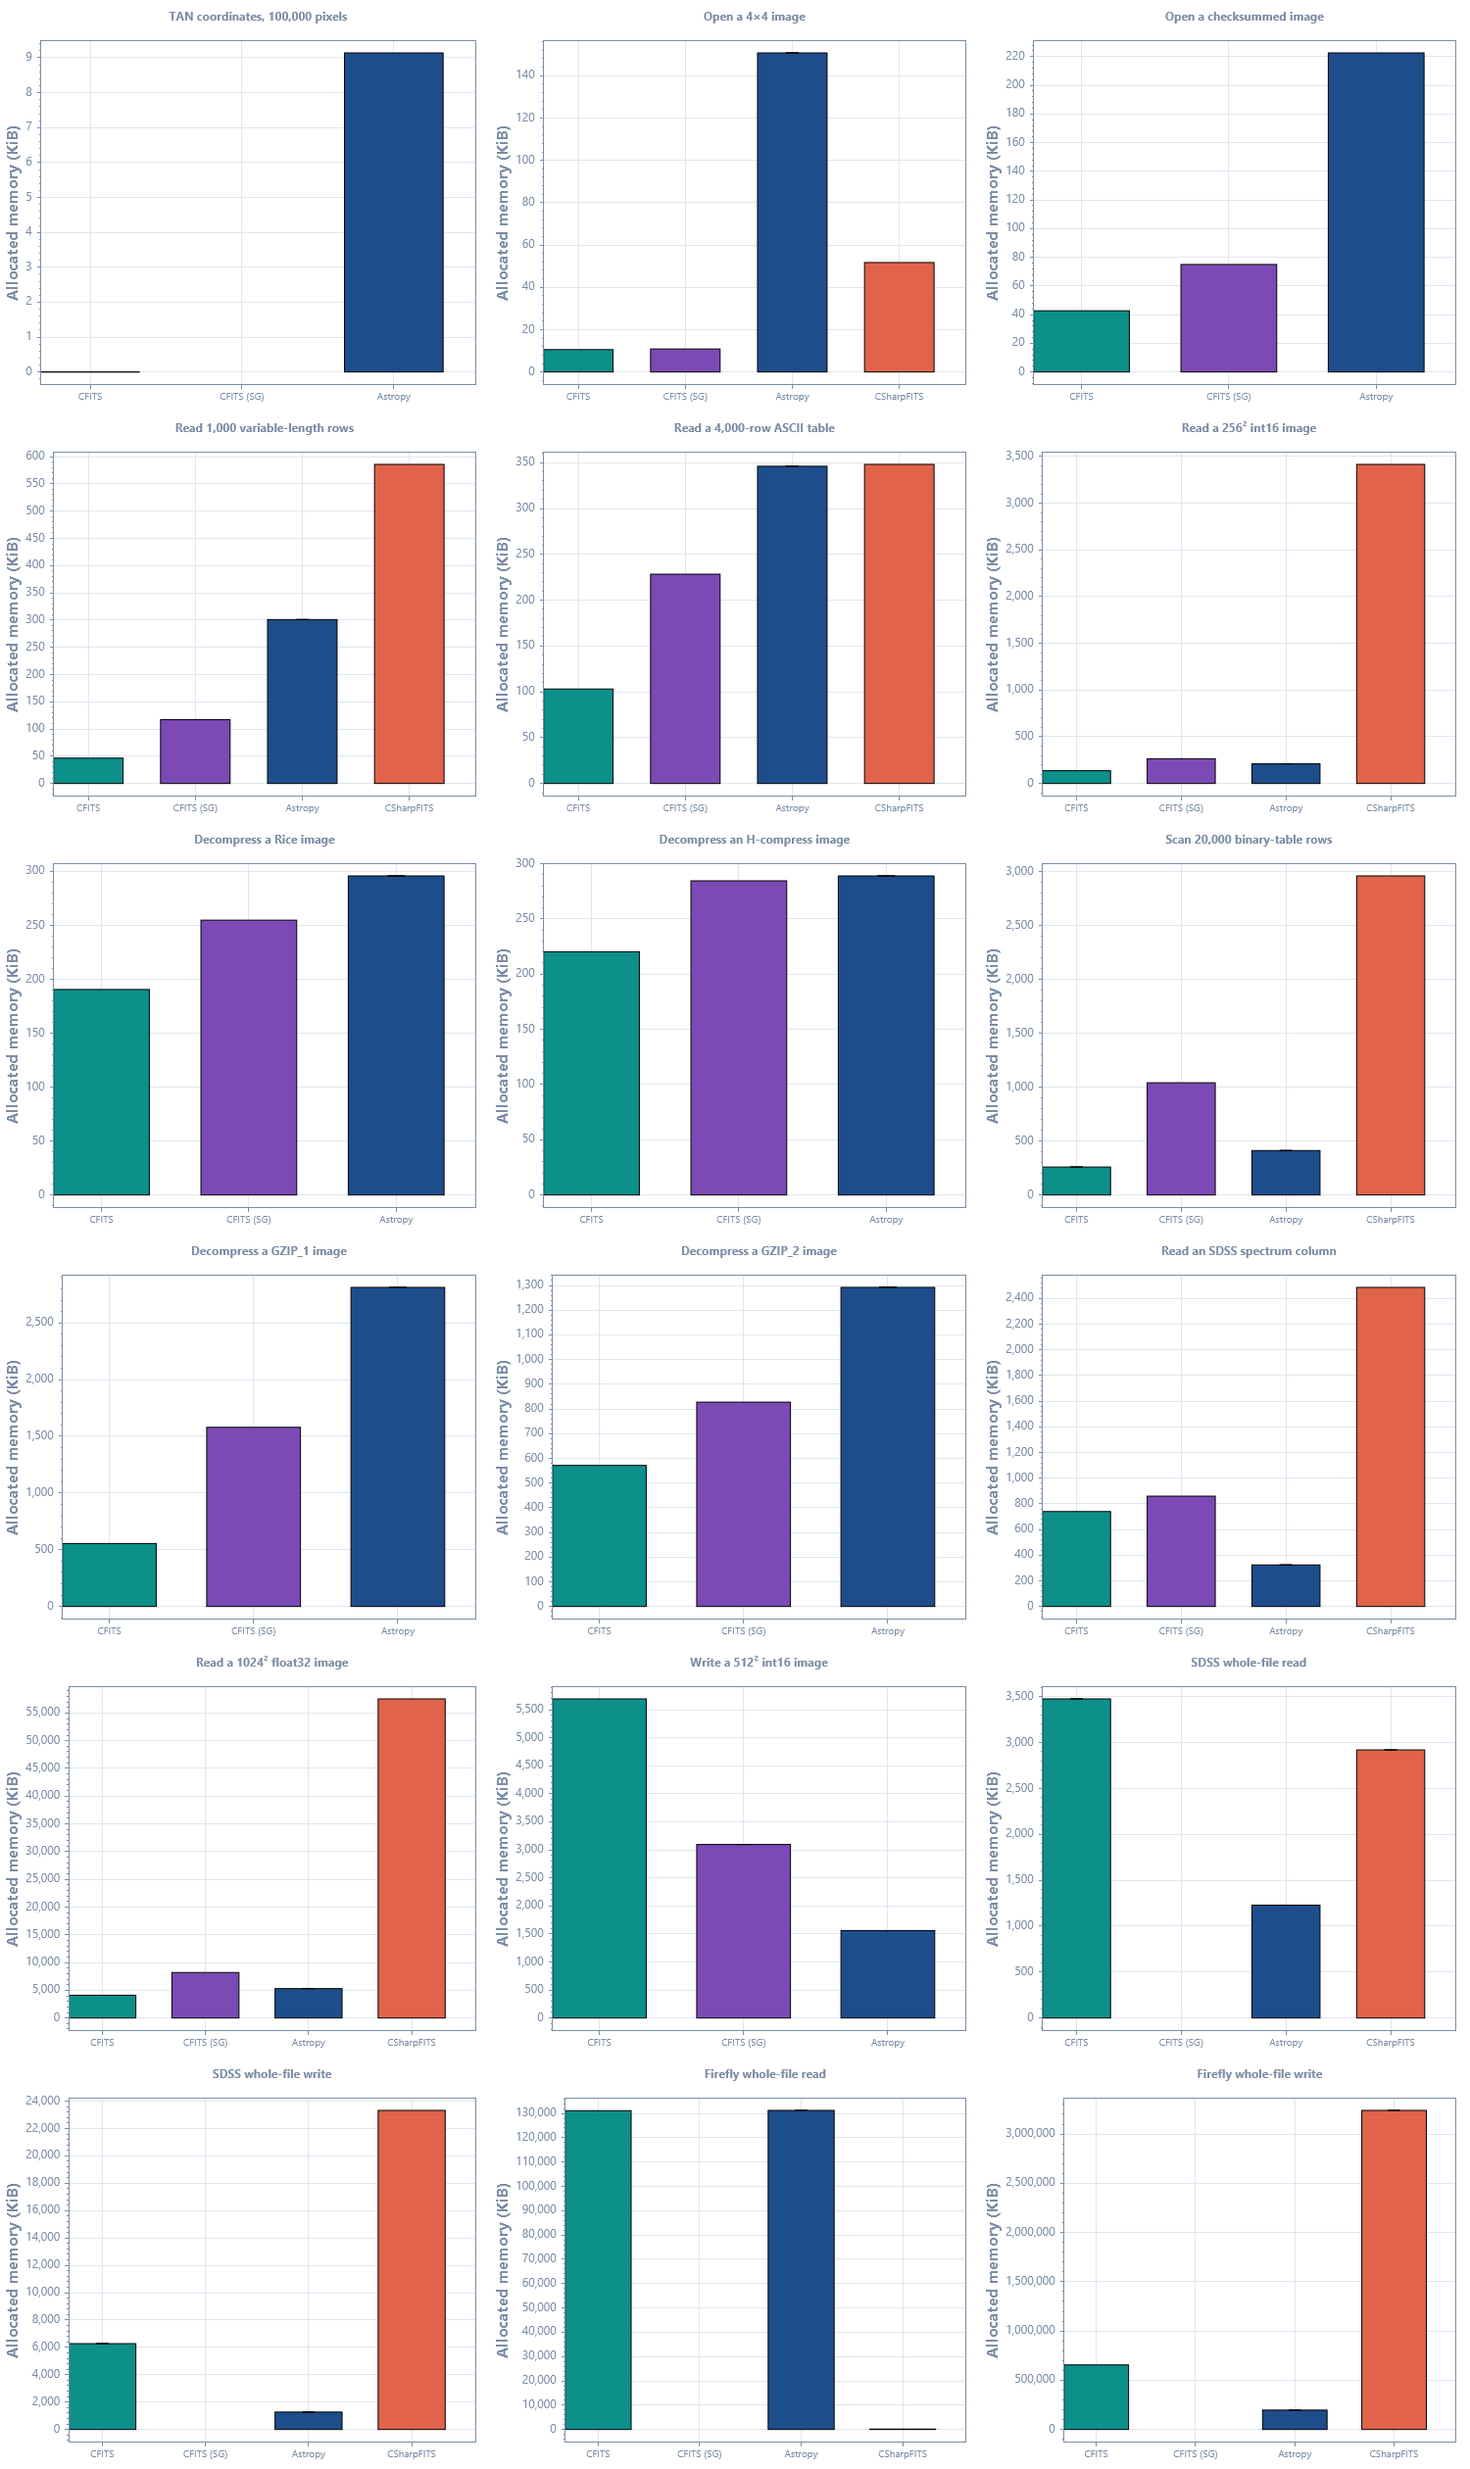
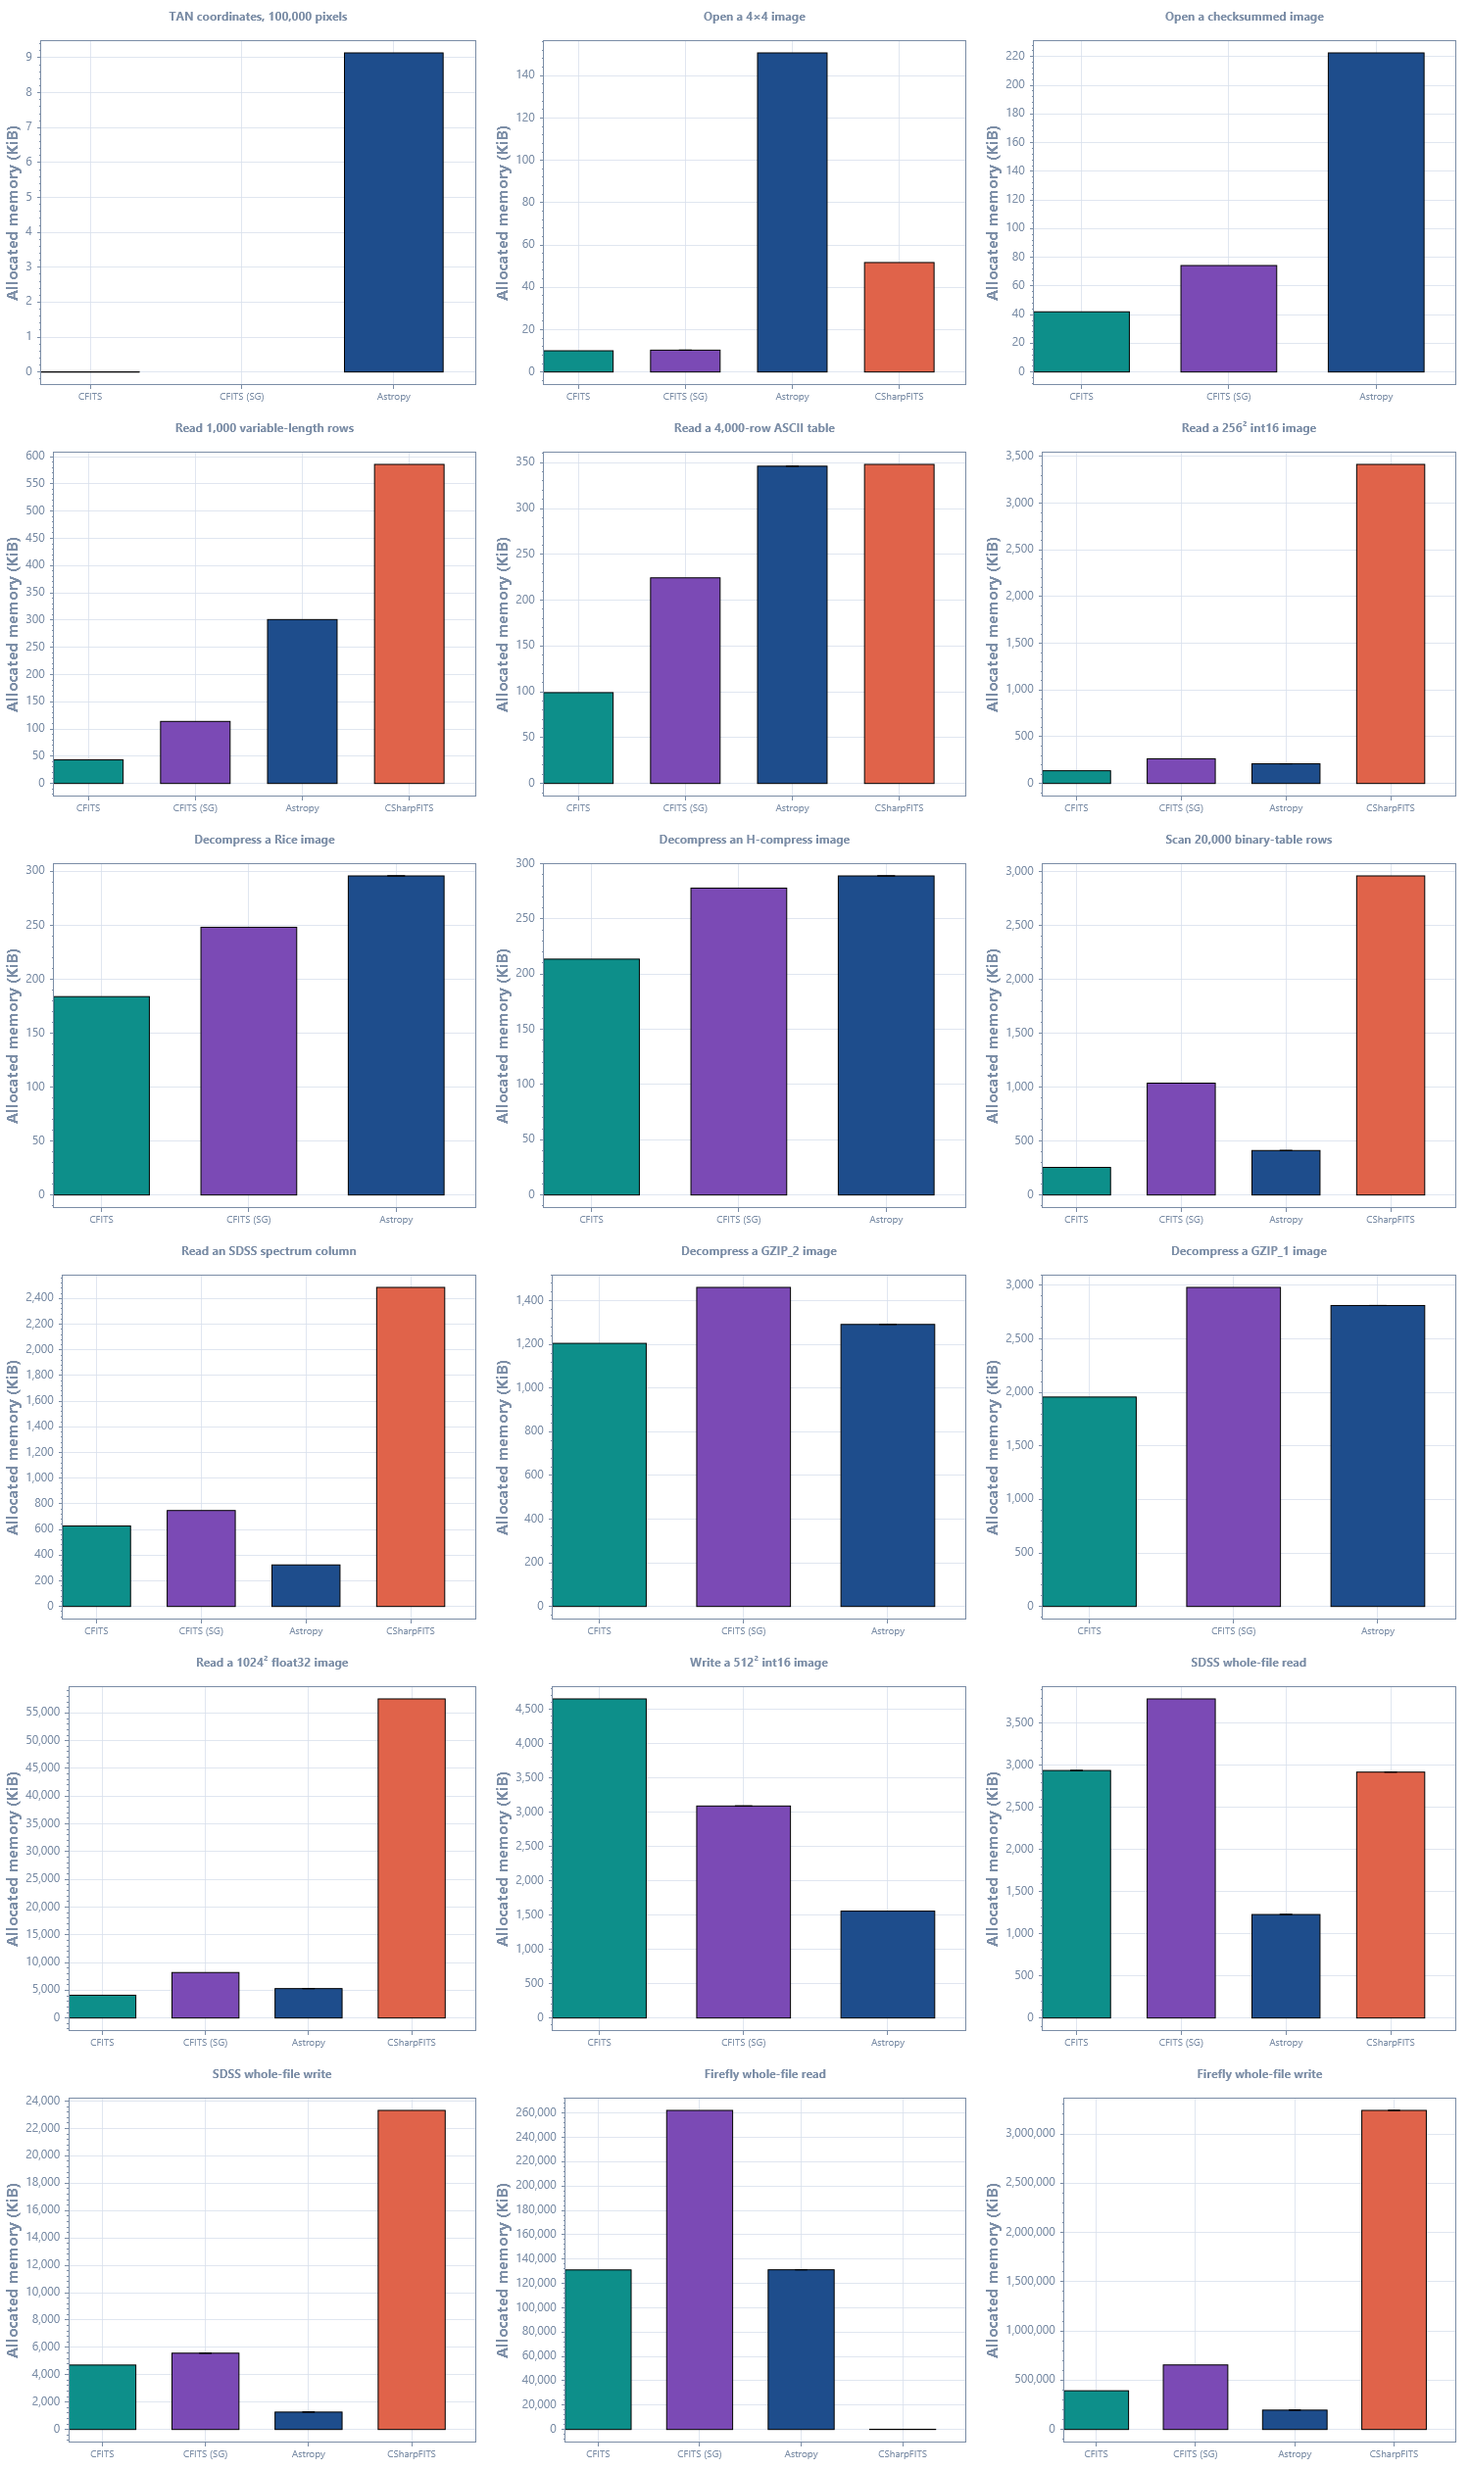
benchmarks

diff --git a/Tools/CFITS.Tests/Surveys/RealSurveyTests.cs b/Tools/CFITS.Tests/Surveys/RealSurveyTests.cs
@@ -17,7 +17,7 @@ public sealed class RealSurveyTests
             "sdss-spec-0500-002.fits",
             "sdss-spec-0500-003.fits",
         ];
-        string manifestPath = Path.Combine(root, "Benchmarks", "Results", "sdss-manifest.csv");
+        string manifestPath = Path.Combine(root, "SampleData", "Real", "sdss-manifest.csv");
         var expectedHashes = File.ReadLines(manifestPath)
             .Skip(1)
             .Select(line => line.Split(','))
@@ -115,6 +115,43 @@ public sealed class RealSurveyTests
             Assert.True(sum != 0);
             Assert.InRange(watch.Elapsed.TotalMilliseconds / 10, 0, 500);
             Console.WriteLine($"{name}: first flux {firstFlux}, loglam {firstWavelength}, sum {sum}, {watch.Elapsed.TotalMilliseconds / 10:0.0} ms");
+        }
+    }
+
+    [Fact]
+    public void DustMapsReadAndWriteAsWholeFitsFiles()
+    {
+        string root = FindRoot();
+        string[] names = ["SFD_dust_4096_ngp.fits", "SFD_dust_4096_sgp.fits"];
+        string outputDirectory = Path.Combine(Path.GetTempPath(), "cfits-dust-roundtrip", Guid.NewGuid().ToString("N"));
+        Directory.CreateDirectory(outputDirectory);
+        try
+        {
+            foreach (string name in names)
+            {
+                string source = Path.Combine(root, "SampleData", "Real", name);
+                string output = Path.Combine(outputDirectory, name);
+                Assert.True(File.Exists(source), source);
+
+                using var document = FitsDocument.Open(source);
+                Assert.NotEmpty(document.Hdus);
+                Assert.NotNull(document.Hdus[0].Image);
+                Assert.True(document.Hdus[0].Image!.Length > 0);
+
+                document.Save(output);
+                using var roundTrip = FitsDocument.Open(output);
+                Assert.Equal(document.Hdus.Count, roundTrip.Hdus.Count);
+                Assert.Equal(
+                    document.Hdus.Select(hdu => hdu.RawData.Length),
+                    roundTrip.Hdus.Select(hdu => hdu.RawData.Length));
+            }
+        }
+        finally
+        {
+            if (Directory.Exists(outputDirectory))
+            {
+                Directory.Delete(outputDirectory, recursive: true);
+            }
         }
     }
 
